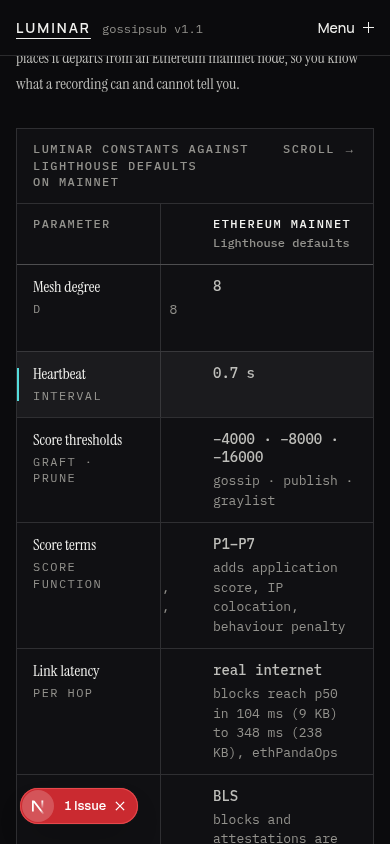
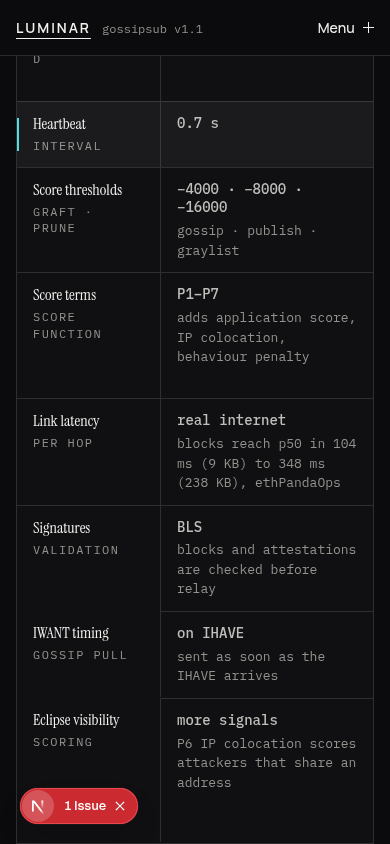
fix(web): landing lane D review round 2
Faithfulness phone table: value columns 13.25rem so the max scroll (212 px)
equals one value column and Luminar sits wholly under the sticky column.
Quick start Offline tab: cd web, npm ci, npm run dev (Node only, no uv).

diff --git a/web/components/landing/Faithfulness.module.css b/web/components/landing/Faithfulness.module.css
@@ -53,10 +53,11 @@
   .table th, .table td { padding: var(--s-3) var(--s-4); }
   .head { padding: var(--s-3) var(--s-4); }
   .hint { display: inline; }
-  /* fixed widths: each value column (11rem) fits beside the sticky 9rem column in a 356 px scroller, so every value can scroll clear of it */
-  .table { width: 31rem; min-width: 0; table-layout: fixed; }
+  /* fixed widths: each value column (13.25rem) fills the 356 px scroller beside the sticky 9rem column, so the max scroll
+     (35.5rem - 356 px = 212 px) equals one value column: at the end Luminar sits wholly under the sticky column */
+  .table { width: 35.5rem; min-width: 0; table-layout: fixed; }
   .table thead th:first-child { width: 9rem; }
-  .table thead th:nth-child(n + 2) { width: 11rem; white-space: normal; }
+  .table thead th:nth-child(n + 2) { width: 13.25rem; white-space: normal; }
   /* the parameter column stays put while the values scroll under it */
   .table tr > :first-child { position: sticky; left: 0; z-index: 1; background: var(--panel); box-shadow: inset calc(-1 * var(--hair-w)) 0 var(--hair); }
 }

diff --git a/web/components/landing/QuickStart.test.tsx b/web/components/landing/QuickStart.test.tsx
@@ -30,7 +30,7 @@ test('arrow keys, Home and End move selection and focus, wrapping at the ends', 
   tabs()[0].focus(); key(tabs()[0], 'ArrowRight')
   expect(tabs()[1].getAttribute('aria-selected')).toBe('true'); expect(document.activeElement).toBe(tabs()[1])
   expect(panel().textContent).toContain('docker compose up --build'); expect(panel().textContent).toContain('http://localhost:8080')
-  key(tabs()[1], 'ArrowRight'); expect(panel().textContent).toContain('make web'); expect(panel().textContent).toContain('/reels/sybil-eclipse/')
+  key(tabs()[1], 'ArrowRight'); expect(panel().textContent).toContain('npm ci'); expect(panel().textContent).not.toContain('make install'); expect(panel().textContent).toContain('/reels/sybil-eclipse/')
   key(tabs()[2], 'ArrowRight'); expect(tabs()[0].getAttribute('aria-selected')).toBe('true')
   key(tabs()[0], 'ArrowLeft'); expect(tabs()[2].getAttribute('aria-selected')).toBe('true')
   key(tabs()[2], 'Home'); expect(tabs()[0].getAttribute('aria-selected')).toBe('true')

diff --git a/web/components/landing/QuickStart.tsx b/web/components/landing/QuickStart.tsx
@@ -18,7 +18,7 @@ export const TABS: Tab[] = [
   { id: 'docker', label: 'Docker', needs: 'Docker only', opens: 'http://localhost:8080',
     lines: [...CLONE, { cmd: 'docker compose up --build', note: 'site and backend in one container' }] },
   { id: 'offline', label: 'Offline', needs: 'Node 22 with npm · no backend, no Wi-Fi', opens: 'http://localhost:3000/reels/sybil-eclipse/',
-    lines: [...CLONE, { cmd: 'make install' }, { cmd: 'make web', note: 'the web half only' }] },
+    lines: [...CLONE, { cmd: 'cd web' }, { cmd: 'npm ci' }, { cmd: 'npm run dev', note: 'the web half only' }] },
 ]
 export const copyText = (t: Tab) => t.lines.map(l => l.cmd).join('\n')
 
